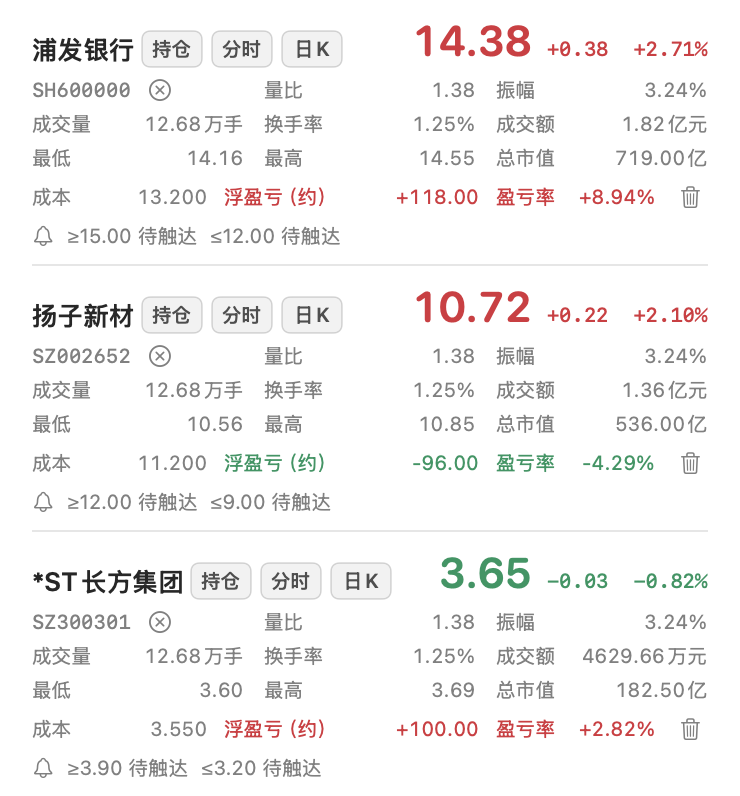
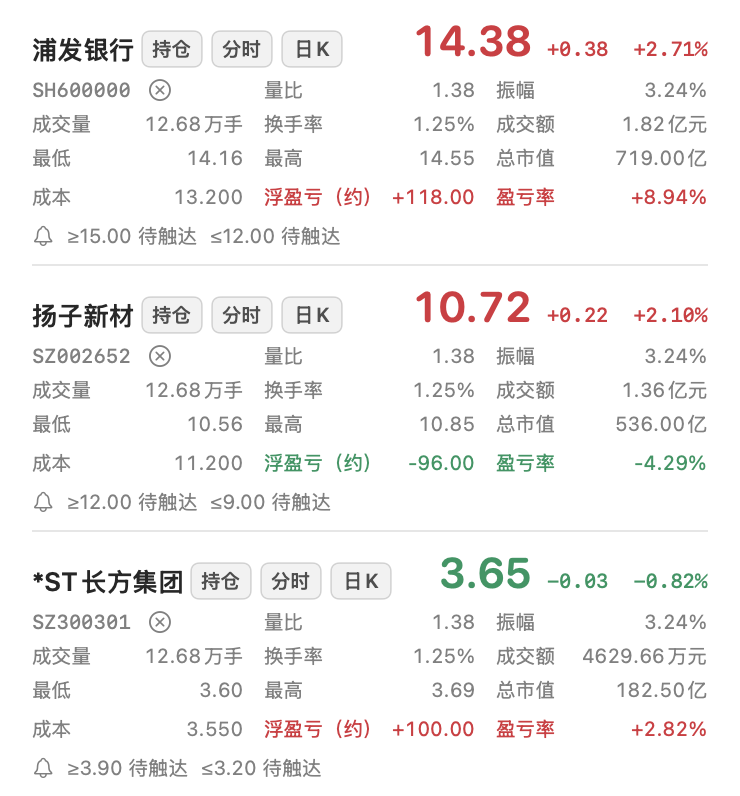
fix(macos): reveal position clearing only on profit hover

diff --git a/macos/Sources/DesktopApp.swift b/macos/Sources/DesktopApp.swift
@@ -775,6 +775,8 @@ struct QuoteRow: View {
     var showDailyKLine: () -> Void = {}
     var expandChart: () -> Void = {}
 
+    @State private var isProfitHovered = false
+
     private var profit: PositionProfit? { valuationPrice.flatMap { configuration.profit(at: $0) } }
     private var priceChange: Double? {
         guard let quote, let valuationPrice else { return nil }
@@ -892,34 +894,16 @@ struct QuoteRow: View {
             .lineLimit(1)
             .foregroundStyle(.secondary)
             if configuration.hasPosition {
-                HStack(spacing: 8) {
+                HStack(spacing: 10) {
                     metric("成本", value: configuration.costPrice.map { String(format: "%.3f", $0) } ?? "—")
-                        .frame(width: 88)
                         .help(configuration.perShareCostYuan.map {
                             "当前\(configuration.quantity ?? 0)股；每股成本\(NSDecimalNumber(decimal: $0).stringValue)元；按做T后成本计算，不再加费"
                         } ?? (configuration.totalCostYuan != nil
                               ? "\(configuration.quantity ?? 0)股；含费总成本\(configuration.totalCostText)元；单股成本自动计算"
                               : "\(configuration.quantity ?? 0)股；原手动成本，总成本\(configuration.totalCostText)元为估算"))
-                    metric("浮盈亏（约）", value: profit?.amountText ?? "—", titleWidth: 60)
-                        .foregroundStyle(profitColor)
-                        .help(configuration.perShareCostYuan != nil
-                              ? "盈亏＝（最新可用报价−当前每股成本）×当前数量；不再另扣手续费。每股成本请按券商做T后的值更新，显示舍入可能与券商有差异。"
-                              : configuration.purchaseAmountYuan != nil
-                              ? "费用按单笔买入委托及设置的佣金率预估；费用落账后可切换为实际含费总成本"
-                              : configuration.totalCostYuan != nil
-                              ? "浮盈亏＝最新可用报价×持仓股数−含费总成本；不再另扣手续费"
-                              : "原配置仍按单股成本×股数估算；可点击持仓填写券商当前每股成本与股数")
+                    profitMetric
                     metric("盈亏率", value: profit.flatMap(\.percent).map { String(format: "%+.2f%%", $0) } ?? "—")
-                        .frame(width: 80)
                         .foregroundStyle(profitColor)
-                    Button(action: clearPosition) {
-                        Image(systemName: "trash")
-                            .frame(width: 18, height: 16)
-                            .contentShape(Rectangle())
-                    }
-                    .buttonStyle(.plain)
-                    .help("清除持仓成本和股数，保留股票及价格提醒")
-                    .accessibilityLabel("清除\(symbol.code)持仓")
                 }
                 .font(.system(size: 10)).lineLimit(1).foregroundStyle(.secondary)
             }
@@ -969,6 +953,45 @@ struct QuoteRow: View {
         .frame(height: quoteRowHeight + (configuration.hasPosition ? 18 : 0)
                + (configuration.hasAlerts ? 18 : 0) + (isExpanded ? trackingEditorHeight : 0)
                + (isChartExpanded ? intradaySectionHeight : 0))
+        .onChange(of: configuration.hasPosition) { _ in isProfitHovered = false }
+    }
+
+    private var profitMetric: some View {
+        HStack(spacing: 2) {
+            Text("浮盈亏（约）")
+                .frame(width: 60, alignment: .leading)
+                .opacity(isProfitHovered ? 0 : 1)
+                .overlay(alignment: .leading) {
+                    if isProfitHovered {
+                        Button(action: clearPosition) {
+                            Label("清除", systemImage: "trash")
+                                .frame(width: 60, height: 16)
+                                .background(Color.primary.opacity(0.06), in: RoundedRectangle(cornerRadius: 3))
+                                .contentShape(Rectangle())
+                        }
+                        .buttonStyle(.plain)
+                        .foregroundStyle(Color.primary.opacity(0.8))
+                        .help("清除持仓成本和股数，保留股票及价格提醒")
+                        .accessibilityLabel("清除\(symbol.code)持仓")
+                    }
+                }
+            Text(profit?.amountText ?? "—")
+                .monospacedDigit()
+                .minimumScaleFactor(0.85)
+                .frame(maxWidth: .infinity, alignment: .trailing)
+                .help(configuration.perShareCostYuan != nil
+                      ? "盈亏＝（最新可用报价−当前每股成本）×当前数量；不再另扣手续费。每股成本请按券商做T后的值更新，显示舍入可能与券商有差异。"
+                      : configuration.purchaseAmountYuan != nil
+                      ? "费用按单笔买入委托及设置的佣金率预估；费用落账后可切换为实际含费总成本"
+                      : configuration.totalCostYuan != nil
+                      ? "浮盈亏＝最新可用报价×持仓股数−含费总成本；不再另扣手续费"
+                      : "原配置仍按单股成本×股数估算；可点击持仓填写券商当前每股成本与股数")
+        }
+        .frame(minWidth: 0, maxWidth: .infinity)
+        .frame(height: 16)
+        .foregroundStyle(profitColor)
+        .contentShape(Rectangle())
+        .onHover { isProfitHovered = $0 }
     }
 
     private func metric(_ title: String, value: String, titleWidth: CGFloat = 30) -> some View {

diff --git a/README.md b/README.md
@@ -2,7 +2,7 @@
 
 原生 macOS 桌面行情浮窗：看持仓、看指数，展开分时与日K，再双击进入可缩放、画线的大图。
 
-**Apple Silicon Mac · macOS 13+ · Swift / SwiftUI · 当前版本 1.17.0**
+**Apple Silicon Mac · macOS 13+ · Swift / SwiftUI · 当前版本 1.17.1**
 
 [功能图册](#功能图册) · [鼠标与快捷键](#鼠标与快捷键) · [构建与安装](#构建与安装) · [详细使用说明](macos/README.md)
 
@@ -16,7 +16,7 @@
 
 ## 功能图册
 
-以下图片由 **1.15.1／1.16.x／1.17.0 的原生界面组件**生成，点击图片可查看原尺寸。持仓、报价、涨跌停、竞价和异常状态使用独立演示数据；指数大日K使用公开上证指数历史快照。图片不包含用户真实持仓，也不代表当前实时行情。为便于阅读，截图使用浅色底；实际桌面浮窗可调整背景透明度。
+以下图片由 **1.15.1／1.16.x／1.17.x 的原生界面组件**生成，点击图片可查看原尺寸。持仓、报价、涨跌停、竞价和异常状态使用独立演示数据；指数大日K使用公开上证指数历史快照。图片不包含用户真实持仓，也不代表当前实时行情。为便于阅读，截图使用浅色底；实际桌面浮窗可调整背景透明度。
 
 ### 1. 持仓看板与综合指数
 
@@ -56,11 +56,13 @@
 
 点击股票名称或「持仓」，在原卡片展开输入。当前只保留 **每股成本＋当前数量**，点击「保存成本」保存；上下提醒价可以单独设置或留空关闭。
 
-卖出后，可直接点击浮盈亏行最右侧的垃圾桶按钮清除持仓。成本和股数会立即清空，底部总盈亏同步更新；股票、分时／日K和价格提醒继续保留，无需展开持仓编辑。
+卖出后，将鼠标移到「浮盈亏」区域，标签位置会显示带垃圾桶图标的「清除」按钮；移开后恢复标签。按钮默认隐藏，显示时不挤动金额和其他列。点击后成本和股数立即清空，底部总盈亏同步更新；股票、分时／日K和价格提醒继续保留，无需展开持仓编辑。
 
-| 清除前：盈亏行右侧按钮 | 清除后：保留股票与提醒 |
+<img src="macos/docs/images/holdings-clear.png" width="370" alt="默认状态只显示成本、浮盈亏与盈亏率，隐藏清除按钮">
+
+| 悬浮浮盈亏：显示清除按钮 | 清除后：保留股票与提醒 |
 | --- | --- |
-| <img src="macos/docs/images/holdings-clear.png" width="370" alt="持仓盈亏行右侧的垃圾桶按钮，使用演示数据"> | <img src="macos/docs/images/holdings-cleared.png" width="370" alt="第一只股票清除持仓后，行情和提醒仍保留，其他股票持仓不变"> |
+| <img src="macos/docs/images/holdings-clear-hover.png" width="370" alt="鼠标悬浮第一只股票的浮盈亏区域时，标签变为清除按钮，金额位置不变"> | <img src="macos/docs/images/holdings-cleared.png" width="370" alt="第一只股票清除持仓后，行情和提醒仍保留，其他股票持仓不变"> |
 
 <img src="macos/docs/images/holdings-editor.png" width="370" alt="持仓编辑：每股成本、当前数量、上方和下方提醒价、保存成本按钮">
 
@@ -191,7 +193,7 @@
 
 ## 构建与安装
 
-当前源码为 **1.17.0 / build 52**。需要 Apple Silicon Mac、macOS 13或以上，以及 Apple Command Line Tools 提供的 `swiftc`。
+当前源码为 **1.17.1 / build 53**。需要 Apple Silicon Mac、macOS 13或以上，以及 Apple Command Line Tools 提供的 `swiftc`。
 
 ```sh
 git clone --branch master https://github.com/LingDaoyun/StockDashboard.git

diff --git a/macos/README.md b/macos/README.md
@@ -146,11 +146,13 @@
 
 填写「每股成本」和「当前数量」，按需设置上下提醒价，点击「保存成本」一并保存；不再另加手续费。
 
-卖出后，点击浮盈亏行右侧的垃圾桶按钮可直接清除持仓成本和股数。该股票立即退出总盈亏汇总，行情、分时／日K及价格提醒继续保留；清除结果保存到本机。按钮仅在有持仓时显示。
+卖出后，将鼠标移到「浮盈亏」区域，标签位置会显示带垃圾桶图标的「清除」按钮。按钮默认隐藏，移开后恢复标签，金额和其他列的位置保持不变。点击后清空该股成本和股数，立即更新总盈亏；股票行情、分时／日K及价格提醒继续保留，清除结果保存到本机。
 
-| 清除前 | 清除后 |
+<img src="docs/images/holdings-clear.png" width="370" alt="默认隐藏清除按钮，保持三列盈亏布局">
+
+| 悬浮显示清除按钮 | 清除后 |
 | --- | --- |
-| <img src="docs/images/holdings-clear.png" width="370" alt="浮盈亏行右侧直接清除持仓按钮"> | <img src="docs/images/holdings-cleared.png" width="370" alt="清除第一只股票持仓后，股票行情与提醒仍保留"> |
+| <img src="docs/images/holdings-clear-hover.png" width="370" alt="浮盈亏标签悬浮时显示清除持仓按钮"> | <img src="docs/images/holdings-cleared.png" width="370" alt="清除第一只股票持仓后，股票行情与提醒仍保留"> |
 
 - 点击「持仓」按钮或股票名称，在卡片内填写「每股成本 · 元」与「当前数量 · 股」。仅保留这一种录入方式，不再提供总成本、买入金额切换或佣金输入。上方、下方价格提醒独立设置。
 - 每股成本填写券商当前显示的已含费用成本，最多8位小数；股数为正整数。按（现价−每股成本）×股数计算，不再加费。零或负成本仍计算盈亏金额，盈亏率显示“—”。
